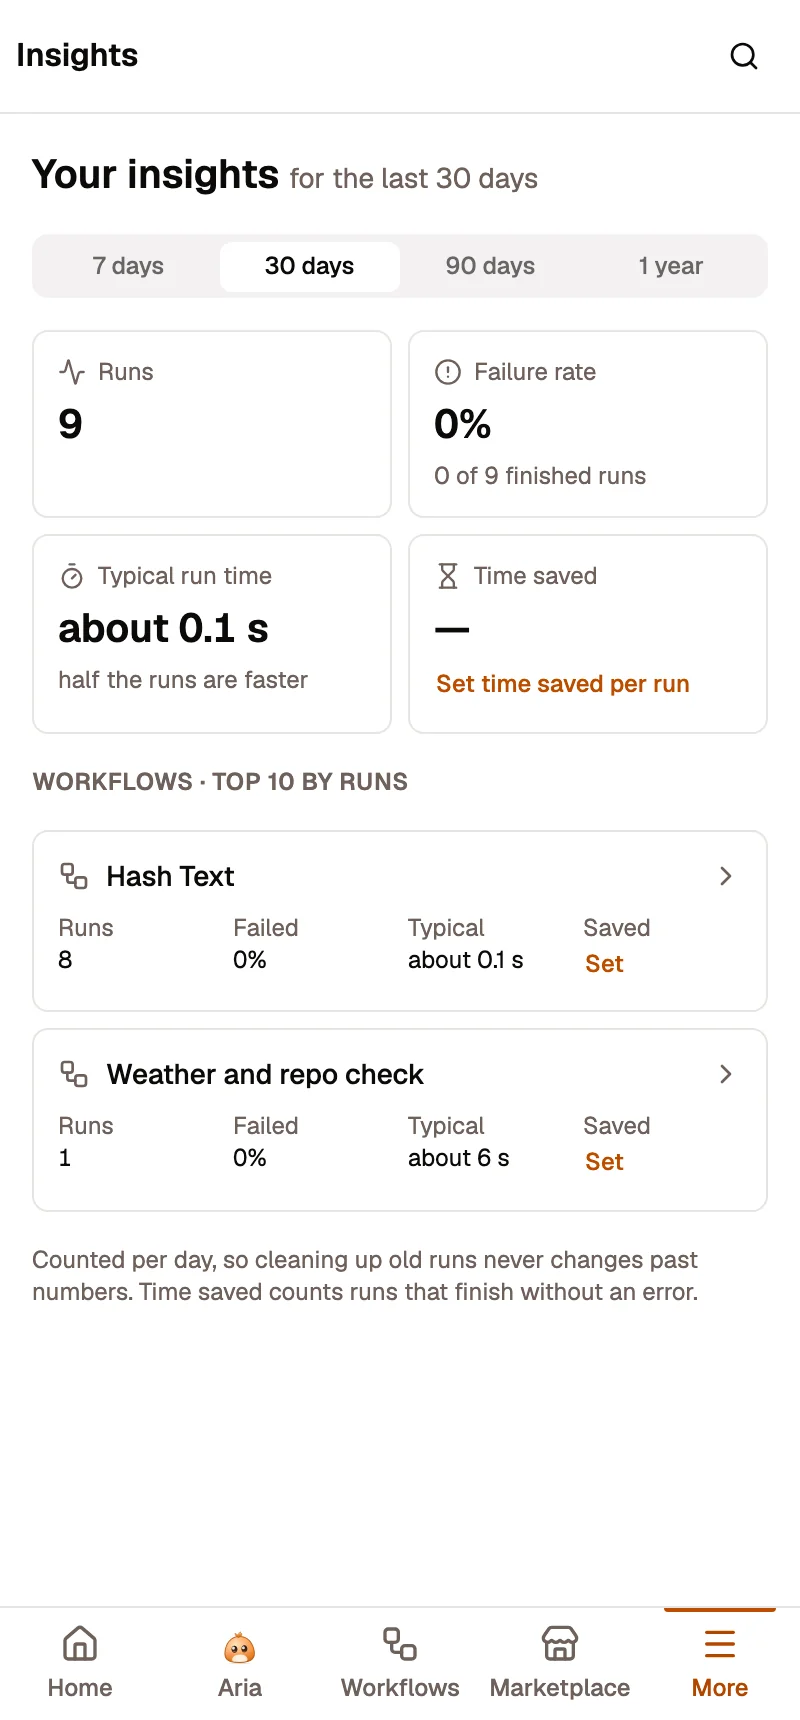
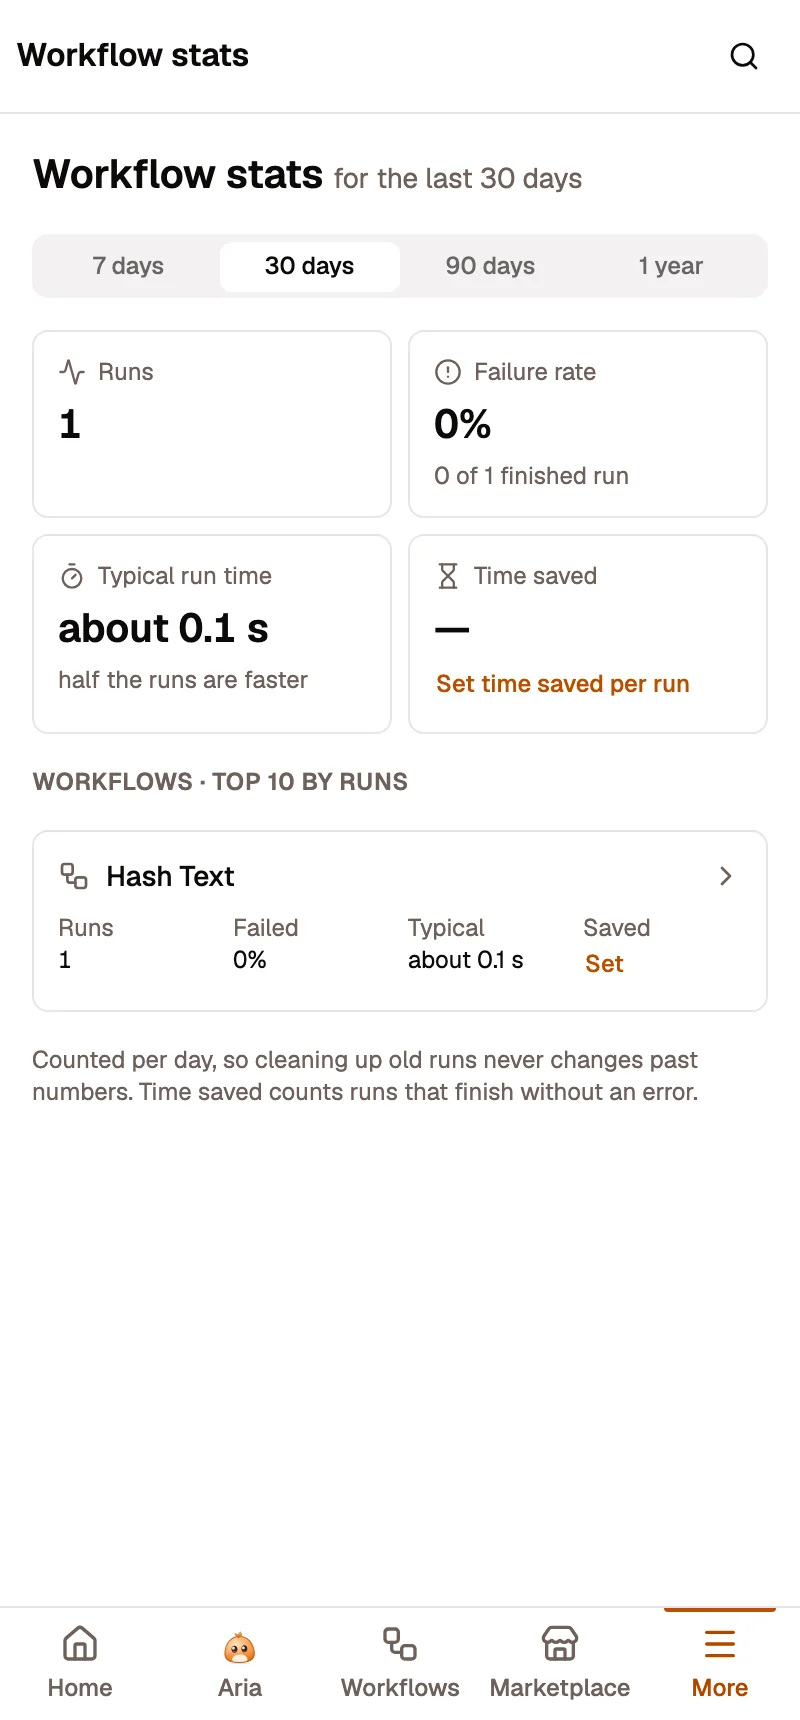
docs(capture): recapture Privacy and Workflow stats shots
The Privacy page lost its turn-trace controls (now Settings > Observability);
the Insights recap is Workflow stats.

Refs awflow/Agentic-Flow#1617

Claude-Session: https://claude.ai/code/session_0142yn9CKycTbdqD5wPLe1Zo

diff --git a/scripts/capture/shots/settings.ts b/scripts/capture/shots/settings.ts
@@ -277,17 +277,14 @@ export const shots: ShotDef[] = [
 		page: 'app/settings/privacy',
 		route: '#/app/settings/privacy',
 		viewport: { width: 1440, height: 1340 },
-		alt: 'Settings, Privacy: Usage statistics with the Share anonymous usage statistics switch (off), What we collect, Reset install ID and a Privacy policy link; Error reports with the Send error reports switch (off); Agent memory with Forget everything (no memories yet); Turn traces with the Developer mode, Keep traces (on) and Include prompt text switches and a Clear traces button; and the summary Nothing is shared from this device.',
+		alt: 'Settings, Privacy: Usage statistics with the Share anonymous usage statistics switch (off), What we collect, Reset install ID and a Privacy policy link; Error reports with the Send error reports switch (off); Agent memory with Forget everything (no memories yet); and the summary Nothing is shared from this device.',
 		note: 'The capture browser starts with usage statistics and error reports off, so docs runs never send telemetry.',
 		spots: [
 			{ id: 'usage-stats', label: 'Share anonymous usage statistics', locator: (p) => main(p).getByRole('switch', { name: 'Share anonymous usage statistics' }) },
 			{ id: 'what-we-collect', label: 'What we collect', locator: (p) => main(p).getByRole('button', { name: 'What we collect' }) },
 			{ id: 'reset-install-id', label: 'Reset install ID', locator: (p) => main(p).getByRole('button', { name: 'Reset install ID' }) },
 			{ id: 'error-reports', label: 'Send error reports', locator: (p) => main(p).getByRole('switch', { name: 'Send error reports' }) },
-			{ id: 'forget-everything', label: 'Forget everything', locator: (p) => main(p).getByRole('button', { name: 'Forget everything' }) },
-			{ id: 'developer-mode', label: 'Developer mode', locator: (p) => main(p).getByRole('switch', { name: 'Developer mode' }) },
-			{ id: 'keep-traces', label: 'Keep traces and Include prompt text', locator: (p) => main(p).getByRole('switch', { name: 'Keep traces' }) },
-			{ id: 'clear-traces', label: 'Clear traces', locator: (p) => main(p).getByRole('button', { name: 'Clear traces' }) }
+			{ id: 'forget-everything', label: 'Forget everything', locator: (p) => main(p).getByRole('button', { name: 'Forget everything' }) }
 		],
 		prepare: async (s) => {
 			const page = s.page;

diff --git a/scripts/capture/shots/road.ts b/scripts/capture/shots/road.ts
@@ -53,7 +53,7 @@ export const shots: ShotDef[] = [
 		page: 'app/insights',
 		route: '#/app/insights',
 		viewport: PANEL,
-		alt: 'The Insights page at side-panel width: Your insights for the last 30 days with the 7 days, 30 days, 90 days and 1 year tabs; tiles for Runs, Failure rate, Typical run time and Time saved (not set yet, with Set time saved per run); then Workflows · top 10 by runs with Hash Text, and the bottom bar.',
+		alt: 'The Workflow stats page at side-panel width: Workflow stats for the last 30 days with the 7 days, 30 days, 90 days and 1 year tabs; tiles for Runs, Failure rate, Typical run time and Time saved (not set yet, with Set time saved per run); then Workflows · top 10 by runs with Hash Text, and the bottom bar.',
 		spots: [],
 		prepare: async (s) => {
 			await openAtPanel(s, 'hash-text', true);
